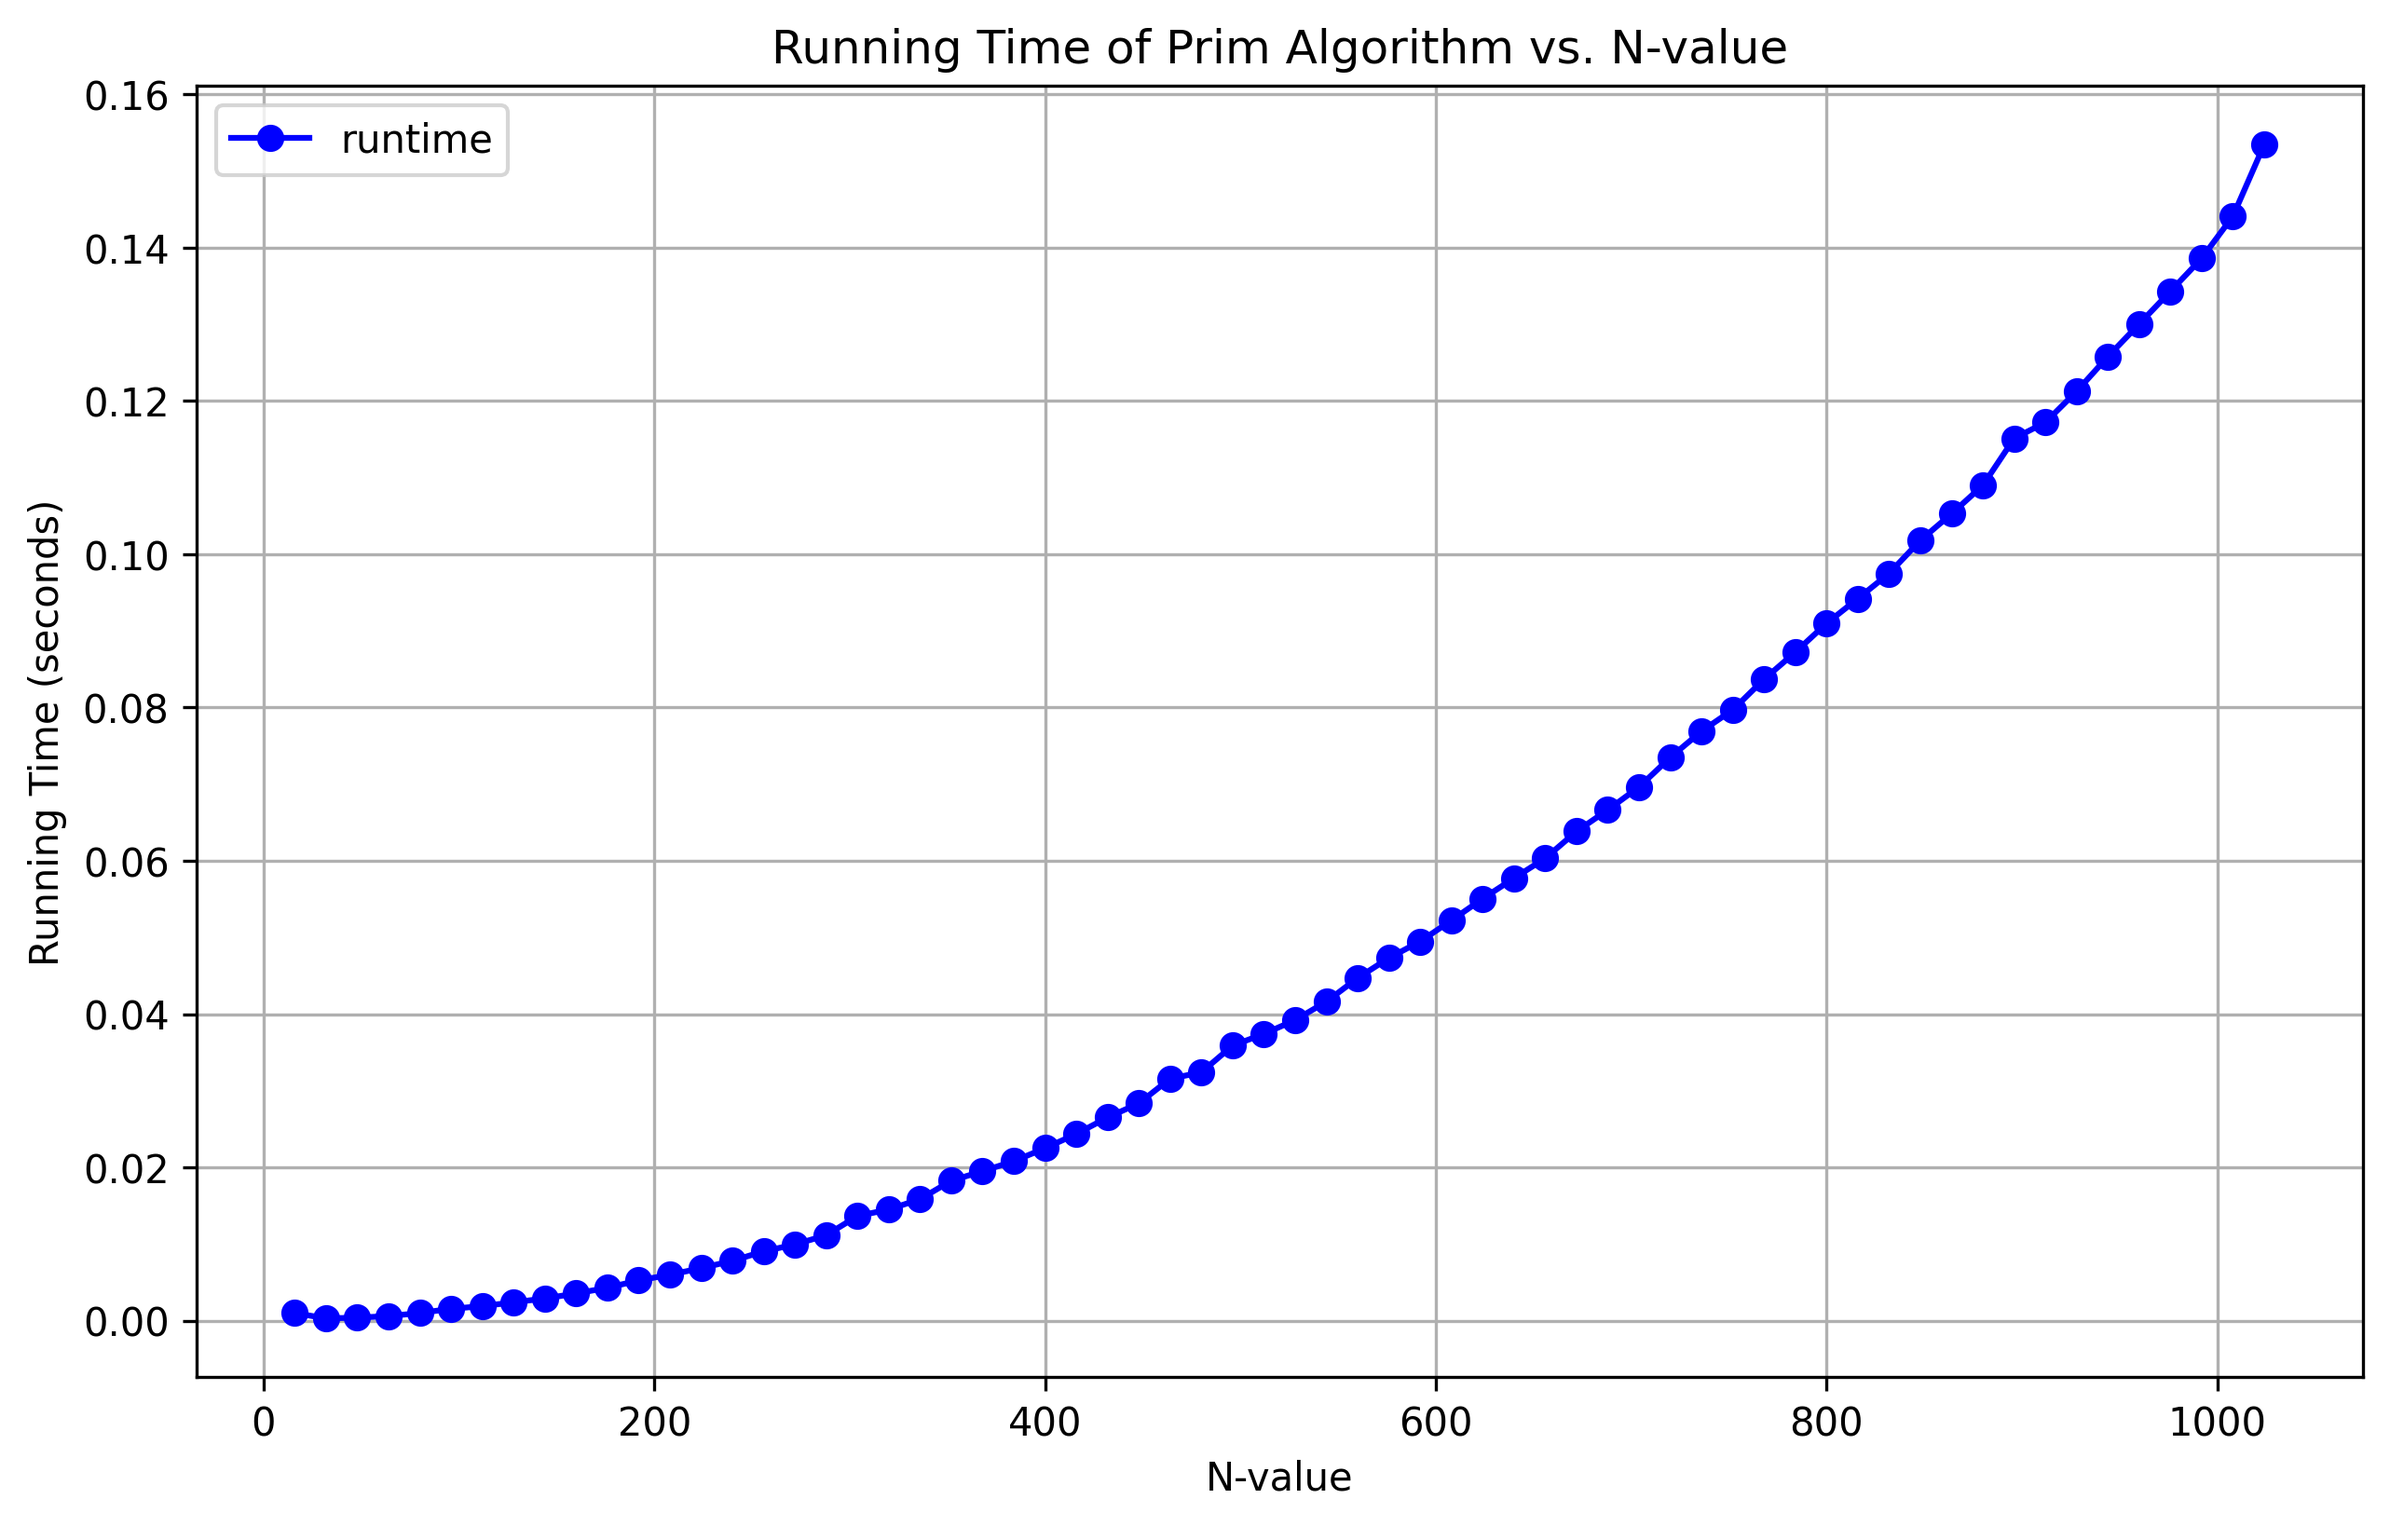
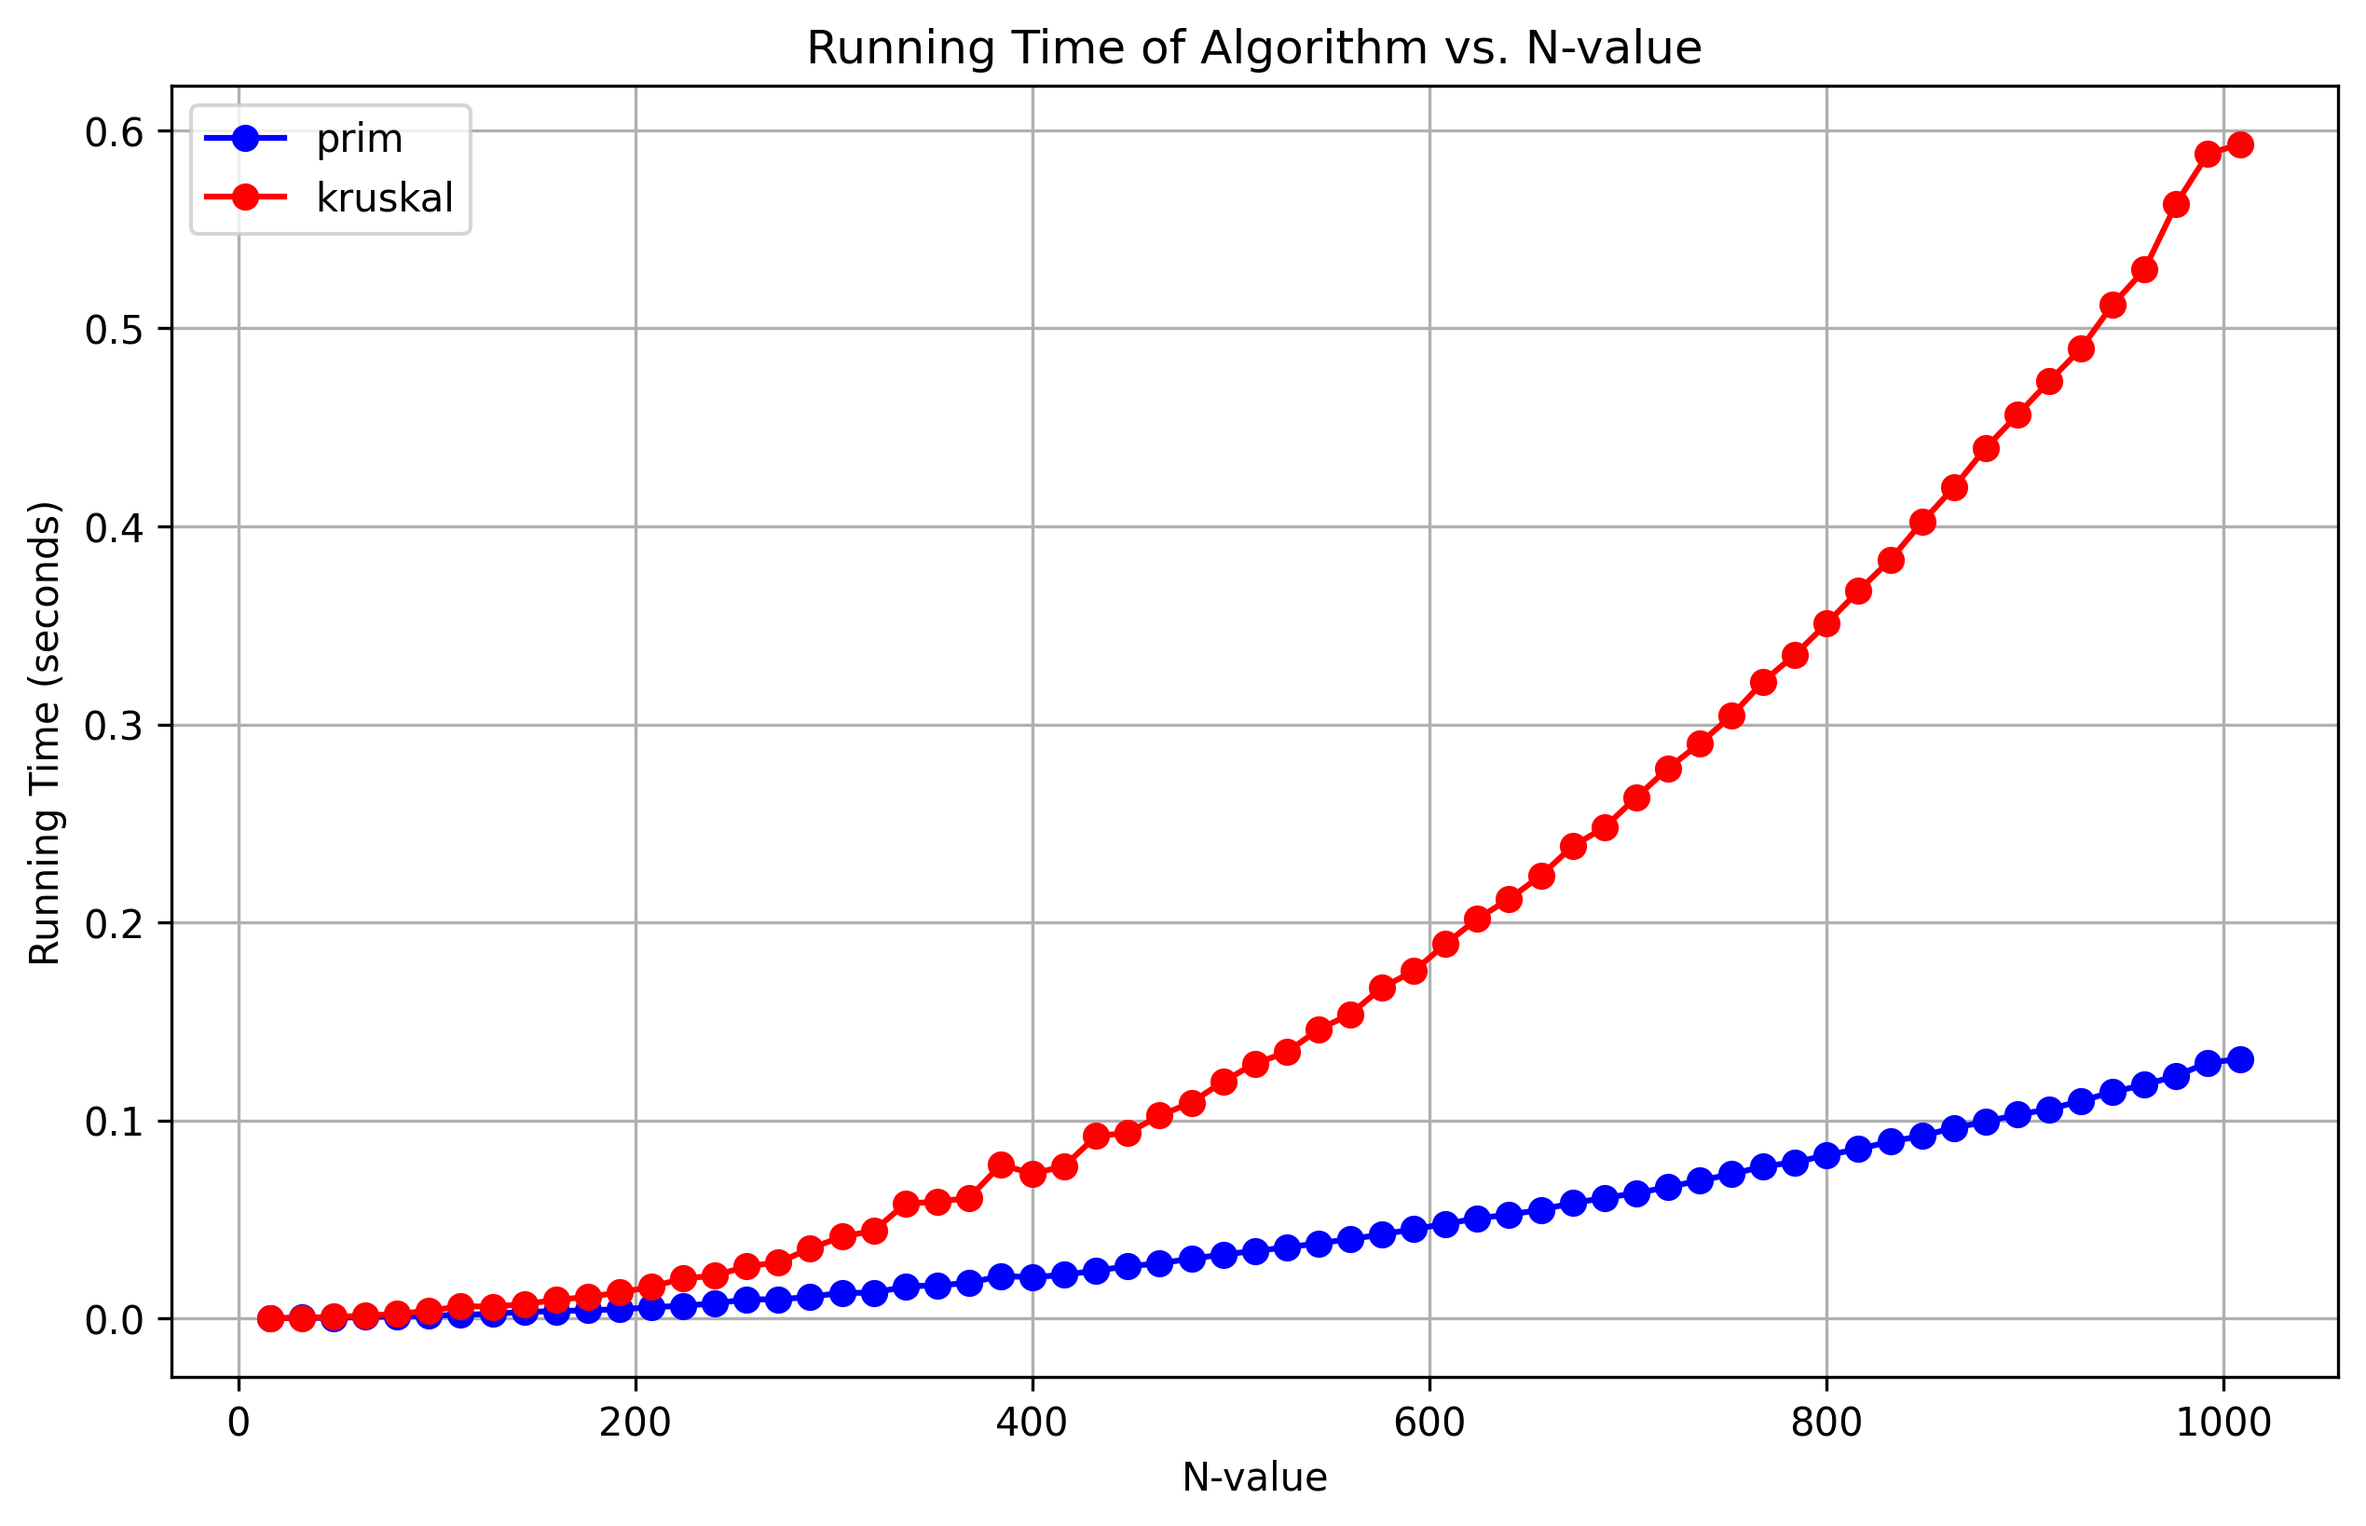
Lab3_update

diff --git a/Lab3/main.py b/Lab3/main.py
@@ -5,40 +5,63 @@ import numpy as np
 
 def main():
     # 创建一个 n_list 数组，表示不同的图规模
-    n_list = np.arange(16, 1040, 16)
-    # 定义 iter_num 表示每个图规模的图生成和 Prim 算法运行次数
+    n_list = np.arange(16, 1024, 16)
+    # 定义 iter_num 表示每个图规模的图生成和算法运行次数
     iter_num = 10
     # 定义 runtimes 和 mst_weights 两个列表，分别用于存储运行时间和 MST 权值
-    runtimes = []
-    mst_weights = []
+    prim_runtimes = []
+    prim_mst_weights = []
+    kruskal_runtimes = []
+    kruskal_mst_weights = []
     # 遍历 n_list 数组，即对不同的图规模 n 进行测试
     for n in n_list:
         print(f"---------- The graph scale is {n} vertices ----------")
         # 创建 RandomGraph 类的实例，表示一个 n 顶点的随机图
         graph = RandomGraph(n)
         # 初始化 mst_weight 为 0
-        mst_weight = 0
-        # 计算 Prim 算法的起始时间
-        start_time = time.time()
+        prim_mst_weight = 0
+        kruskal_mst_weight = 0
+        # 初始化 runtime 为 0
+        prim_runtime = 0
+        kruskal_runtime = 0
         # 进行 iter_num 次 Prim 算法的运行
         for num in range(iter_num):
-            #print(f"{num}th calculation")
             # 随机化 graph，生成一个 n 顶点的随机加权图
             graph.randomize()
+
+            # 计算 Prim 算法的起始时间
+            prim_start_time = time.time()
             # 运行 Prim 算法，计算最小生成树的权值
-            mst_weight += graph.prim()
-        # 计算 Prim 算法的结束时间
-        end_time = time.time()
+            prim_mst_weight += graph.prim()
+            # 计算 Prim 算法的结束时间
+            prim_end_time = time.time()
+            # 计算 Prim 算法的运行时间
+            prim_runtime += prim_end_time - prim_start_time
+
+            # 计算 Kruskal 算法的起始时间
+            kruskal_start_time = time.time()
+            # 运行 Kruskal 算法，计算最小生成树的权值
+            kruskal_mst_weight += graph.kruskal()
+            # 计算 Kruskal 算法的结束时间
+            kruskal_end_time = time.time()
+            # 计算 Kruskal 算法的运行时间
+            kruskal_runtime += kruskal_end_time - kruskal_start_time
+
         # 计算 Prim 算法的平均运行时间和 MST 权值
-        runtimes.append((n, ((end_time - start_time)/iter_num)))
-        mst_weights.append((n, (mst_weight/iter_num)))
-        print(f"Average runtime: {(end_time - start_time)/iter_num} seconds")
-        print(f"Average mst_weight: {mst_weight/iter_num}")
+        prim_runtimes.append((n, (prim_runtime/iter_num)))
+        prim_mst_weights.append((n, (prim_mst_weight/iter_num)))
+        print(f"Average prim runtime: {prim_runtime/iter_num} seconds")
+        print(f"Average prim mst_weight: {prim_mst_weight/iter_num}")
+        # 计算 Kruskal 算法的平均运行时间和 MST 权值
+        kruskal_runtimes.append((n, (kruskal_runtime/iter_num)))
+        kruskal_mst_weights.append((n, (kruskal_mst_weight/iter_num)))
+        print(f"Average kruskal runtime: {kruskal_runtime/iter_num} seconds")
+        print(f"Average kruskal mst_weight: {kruskal_mst_weight/iter_num}")
     print("---------- Plotting data images ----------")
-    # 绘制 Prim 算法的运行时间随图规模变化的曲线
-    draw_time(runtimes)
+    # 绘制算法的运行时间随图规模变化的曲线
+    draw_time(prim_runtimes, kruskal_runtimes)
     # 绘制 MST 权值随图规模变化的曲线
-    draw_weights(mst_weights)
+    draw_weights(prim_mst_weights, kruskal_mst_weights)
 
 
 if __name__ == '__main__':

diff --git a/Lab3/graph.py b/Lab3/graph.py
@@ -52,3 +52,67 @@ class RandomGraph:
                     dist[v] = self.graph[u, v]
         # 返回 MST 的总权值
         return mst
+    
+    # --------------- kruskal 方法 --------------- #
+    # Kruskal 算法计算最小生成树权值
+    def kruskal(self):
+        # 初始化 n
+        n = self.n
+        # 初始化 edges 数组，存储图中所有边的信息
+        edges = []
+        # 遍历邻接矩阵，将边的信息加入 edges 数组
+        for i in range(n):
+            for j in range(i+1, n):
+                if self.graph[i, j] != np.inf:
+                    edges.append((i, j, self.graph[i, j]))
+        # 按照边的权值从小到大排序
+        edges.sort(key=lambda x: x[2])
+        # 初始化 parent 数组，存储顶点的父节点
+        parent = list(range(n))
+        # 记录树的深度
+        rank = [0] * n
+        # --------------- 查找操作 --------------- #
+        # 用于查找顶点 x 所属的连通分量的根节点
+        def find(x):
+            # 如果 x 不是根节点，则递归查找其根节点
+            if parent[x] != x:
+                parent[x] = find(parent[x])
+            # 返回 x 的根节点
+            return parent[x]
+        
+        # --------------- 合并操作 --------------- #
+        def union(x, y):
+            # 查找 x 和 y 的根节点
+            root_x = find(x)
+            root_y = find(y)
+            # 如果 x 和 y 不在同一个连通分量中，则合并
+            if root_x != root_y:
+                # 如果 x 的树深度小于 y 的树深度，则将 x 的根节点设为 y
+                if rank[root_x] > rank[root_y]:
+                    parent[root_y] = root_x
+                # 如果 x 的树深度大于 y 的树深度，则将 y 的根节点设为 x
+                elif rank[root_x] < rank[root_y]:
+                    parent[root_x] = root_y
+                # 如果 x 和 y 的树深度相等，则将其中一个设为另一个的根节点，并更新树深
+                else:
+                    parent[root_y] = root_x
+                    rank[root_x] += 1
+                # 返回 True 表示合并成功
+                return True
+            # 返回 False 表示 x 和 y 已在同一个连通分量中
+            return False
+        # kruskal 算法计算最小生成树的总权值
+        # 初始化 mst 为 0，表示最小生成树的总权值
+        mst = 0
+        # 记录已加入 MST 的边数
+        edge_count = 0
+        # 遍历 edges 数组，即所有边的信息
+        for u, v, w in edges:
+            # 如果 u 和 v 不在同一个连通分量中，则将 u-v 加入 MST
+            if union(u, v):
+                mst += w
+                edge_count += 1
+                if edge_count == n - 1:
+                    break
+        # 返回 MST 的总权值
+        return mst

diff --git a/Lab3/draw.py b/Lab3/draw.py
@@ -1,14 +1,16 @@
 import matplotlib.pyplot as plt
 from mpmath import zeta
 
-# --------------- 绘制 Prim 算法的运行时间随图规模变化的曲线 --------------- #
-def draw_time(runtimes):
-    n_list, runtimes = zip(*runtimes)
+# --------------- 绘制算法的运行时间随图规模变化的曲线 --------------- #
+def draw_time(prim_runtimes, kruskal_runtimes):
+    n_list, prim_runtimes = zip(*prim_runtimes)
+    n_list, kruskal_runtimes = zip(*kruskal_runtimes)
     plt.figure(figsize=(10, 6))
-    plt.plot(n_list, runtimes, marker='o', linestyle='-', color='b', label="runtime")
+    plt.plot(n_list, prim_runtimes, marker='o', linestyle='-', color='b', label="prim")
+    plt.plot(n_list, kruskal_runtimes, marker='o', linestyle='-', color='r', label="kruskal")
     plt.xlabel('N-value')   
     plt.ylabel('Running Time (seconds)')
-    plt.title('Running Time of Prim Algorithm vs. N-value') 
+    plt.title('Running Time of Algorithm vs. N-value') 
     plt.legend()
     plt.grid(True)
 
@@ -16,11 +18,13 @@ def draw_time(runtimes):
     plt.savefig(save_path, dpi=300, bbox_inches='tight')
     print(f"Save the runtime.png: {save_path}")
 
-# --------------- 绘制 Prim 算法的 MST 权值随图规模变化的曲线 --------------- #
-def draw_weights(mst_weights):
-    n_list, mst_weights = zip(*mst_weights)
+# --------------- 绘制 MST 权值随图规模变化的曲线 --------------- #
+def draw_weights(prim_mst_weights, kruskal_mst_weights):
+    n_list, prim_mst_weights = zip(*prim_mst_weights)
+    #n_list, kruskal_mst_weights = zip(*kruskal_mst_weights)
     plt.figure(figsize=(10, 6))
-    plt.plot(n_list, mst_weights, marker='o', linestyle='-', color='b', label="mst_weights")
+    plt.plot(n_list, prim_mst_weights, marker='o', linestyle='-', color='b', label="weight")
+    #plt.plot(n_list, kruskal_mst_weights, marker='o', linestyle='-', color='r', label="kruskal")
     Apery_const = zeta(3)
     plt.plot([0, n_list[-1]], [Apery_const, Apery_const], linestyle='--', c='gray')
     plt.xlabel('N-value')
